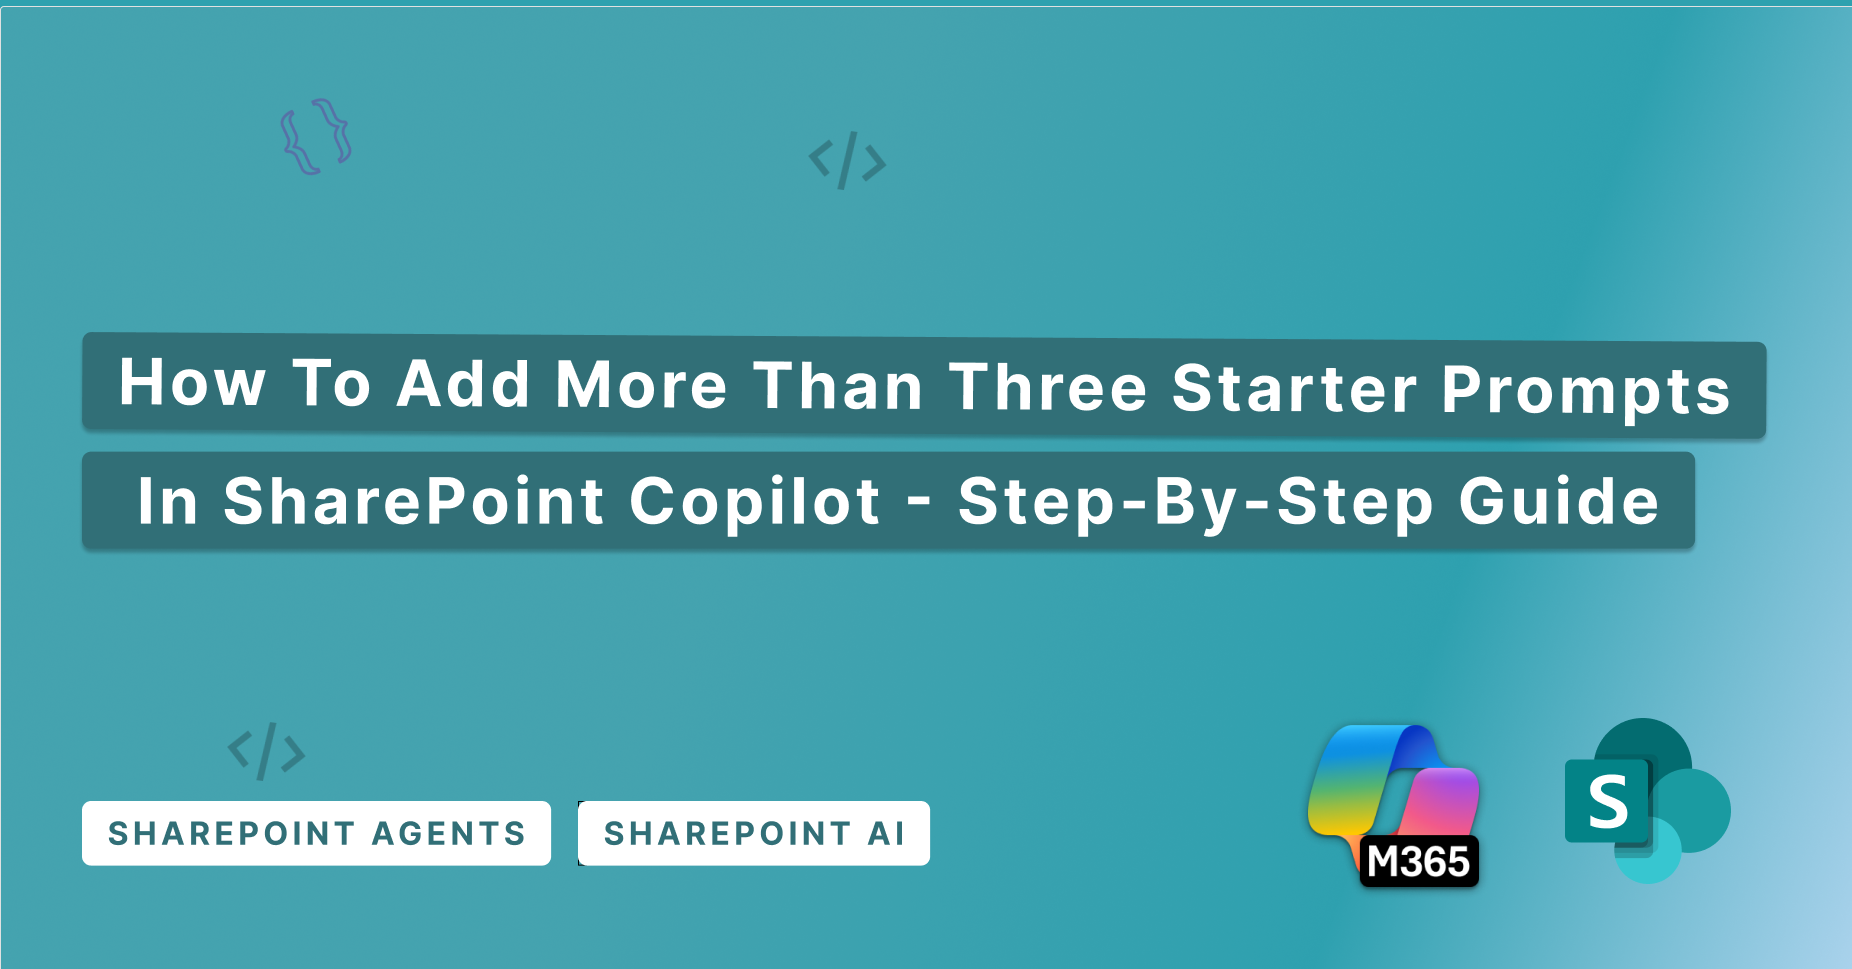
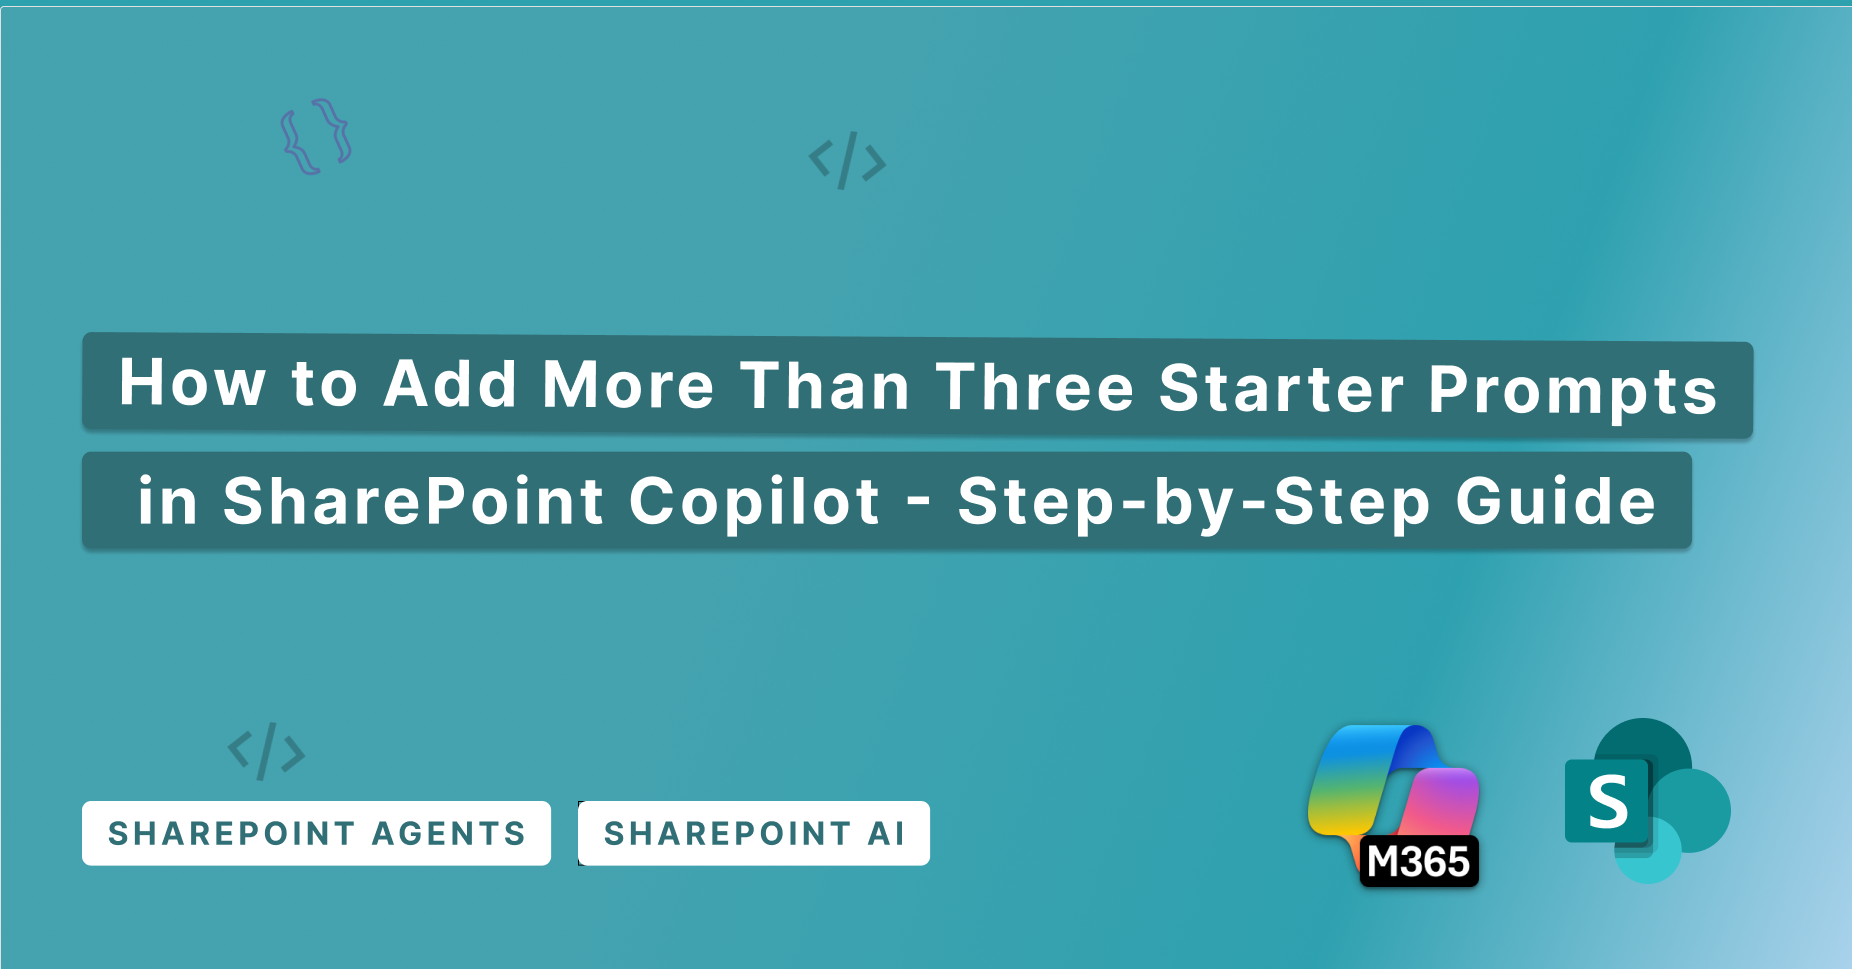
update post title and thumbnail (#2154)

diff --git a/content/post/how-to-add-more-than-three-starter-prompts-in-sharepoint-agents-step-by-step-guide/index.md b/content/post/how-to-add-more-than-three-starter-prompts-in-sharepoint-agents-step-by-step-guide/index.md
@@ -1,5 +1,5 @@
 ---
-title: "how to add more than three starter prompts in sharepoint agents step-by-step guide"
+title: "How to Add More Than Three Starter Prompts in SharePoint Agents: A Step-by-Step Guide"
 date: 2025-08-25T15:52:00+00:00
 author: "Ahmad Jad Alhak"
 githubname: ahmad-jad-alhak
